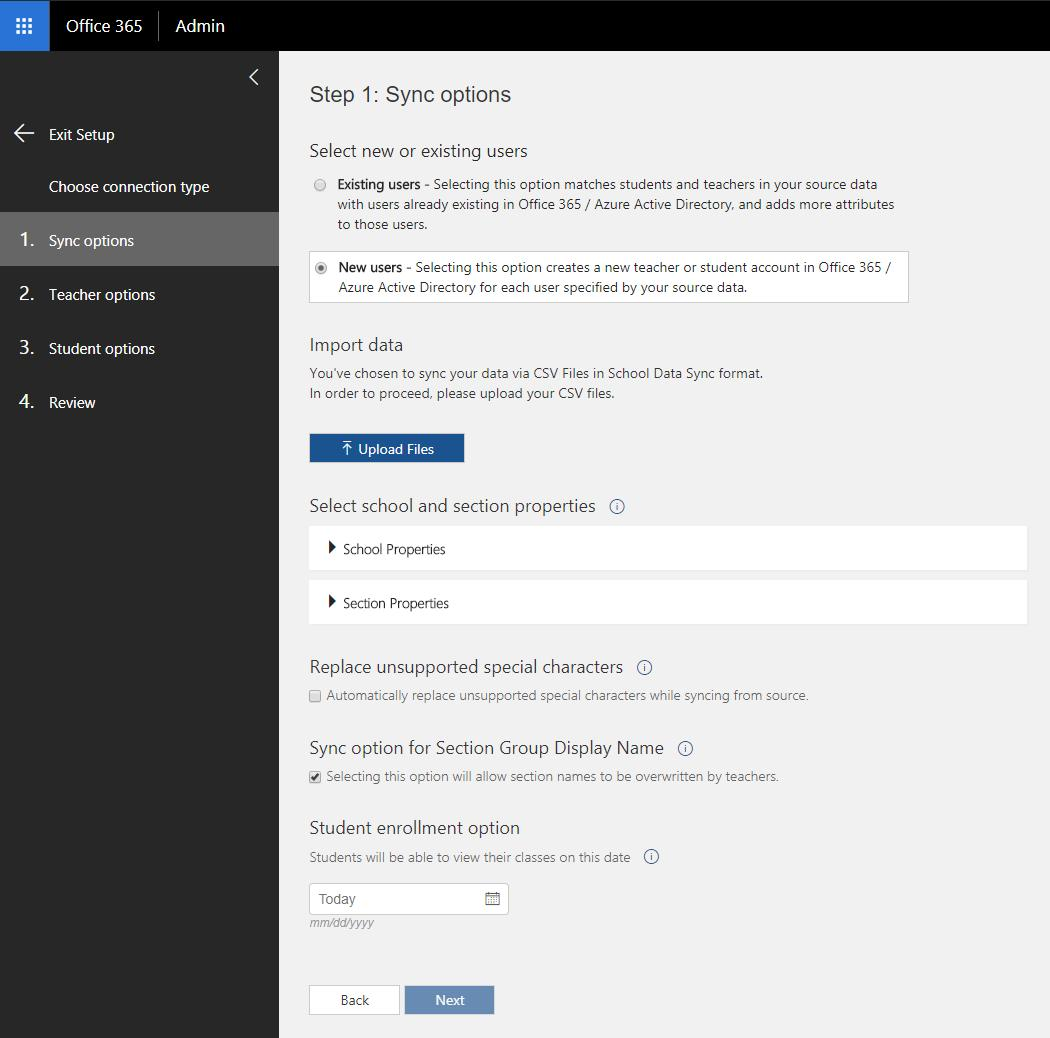
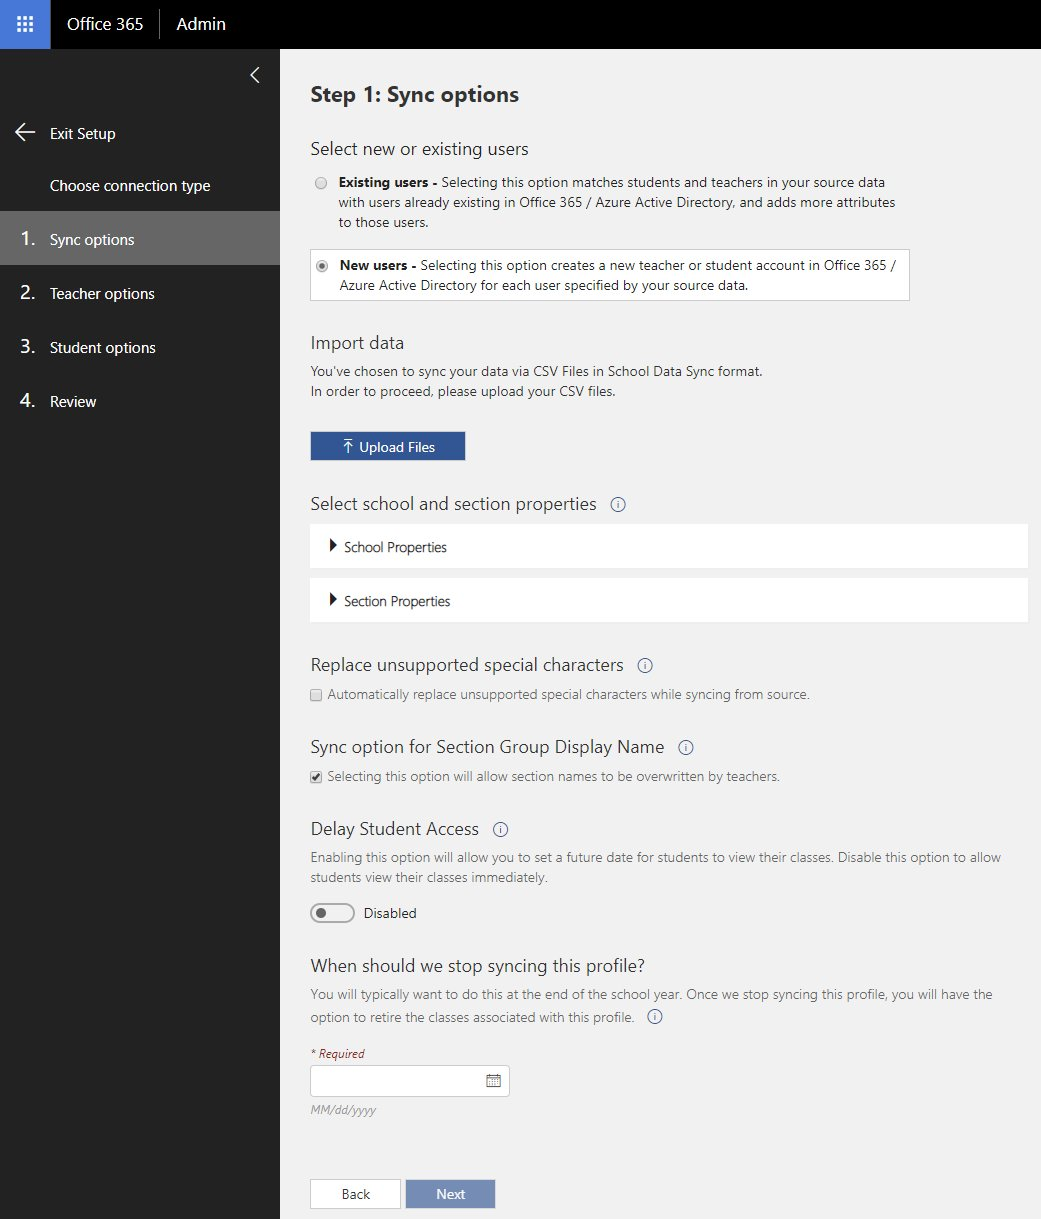
Updated screenshots to reflect current UI

diff --git a/HOL/HOL0/README.md b/HOL/HOL0/README.md
@@ -106,7 +106,7 @@ In this lab, you will set up an Office 365 Educational trial subscription, popul
 
     ![image](./media/2018-06-28-11-21-00.jpg)
 
-1. On the Sync Options page, select the  `new users` option. Then click upload files to upload your 6 CSV files. Once uploaded, click `Next`. In a production scenario you would usually choose to sync existing users. For a more detailed instruction on the sync process see [docs.microsoft.com/en-us/SchoolDataSync/how-to-deploy-school-data-sync-by-using-csv-files](https://docs.microsoft.com/en-us/SchoolDataSync/how-to-deploy-school-data-sync-by-using-csv-files).
+1. On the Sync Options page, select the  `new users` option. Then click upload files to upload your 6 CSV files. Once uploaded, select an arbitrary stop date in the future, click `Next`. In a production scenario you would usually choose to sync existing users. For a more detailed instruction on the sync process see [docs.microsoft.com/en-us/SchoolDataSync/how-to-deploy-school-data-sync-by-using-csv-files](https://docs.microsoft.com/en-us/SchoolDataSync/how-to-deploy-school-data-sync-by-using-csv-files).
 
     ![image](./media/2018-06-28-11-23-00.jpg)
 
@@ -170,7 +170,7 @@ To follow the programming examples in the upcoming hands-on labs you will need a
 
     ![image](./media/2018-07-18-15-24-00.jpg)
 
-1. Enter `Visual Studio 2017` in the search box.
+1. Enter `Visual Studio Community 2017` in the search box.
 
     ![image](./media/2018-07-18-15-39-00.jpg)
 
